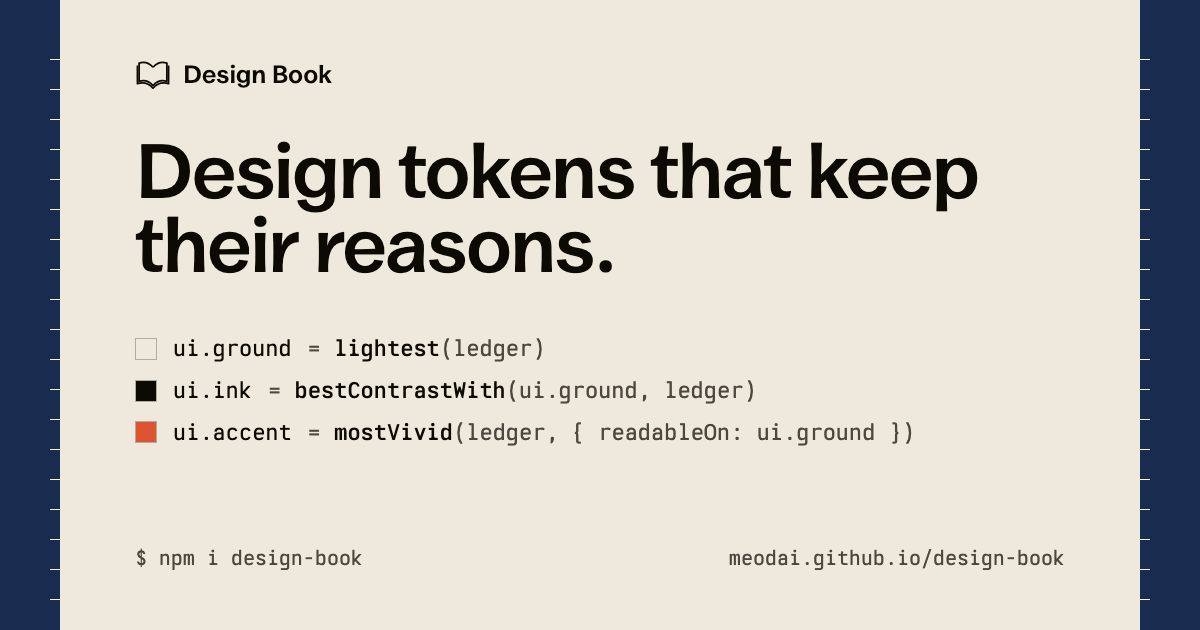
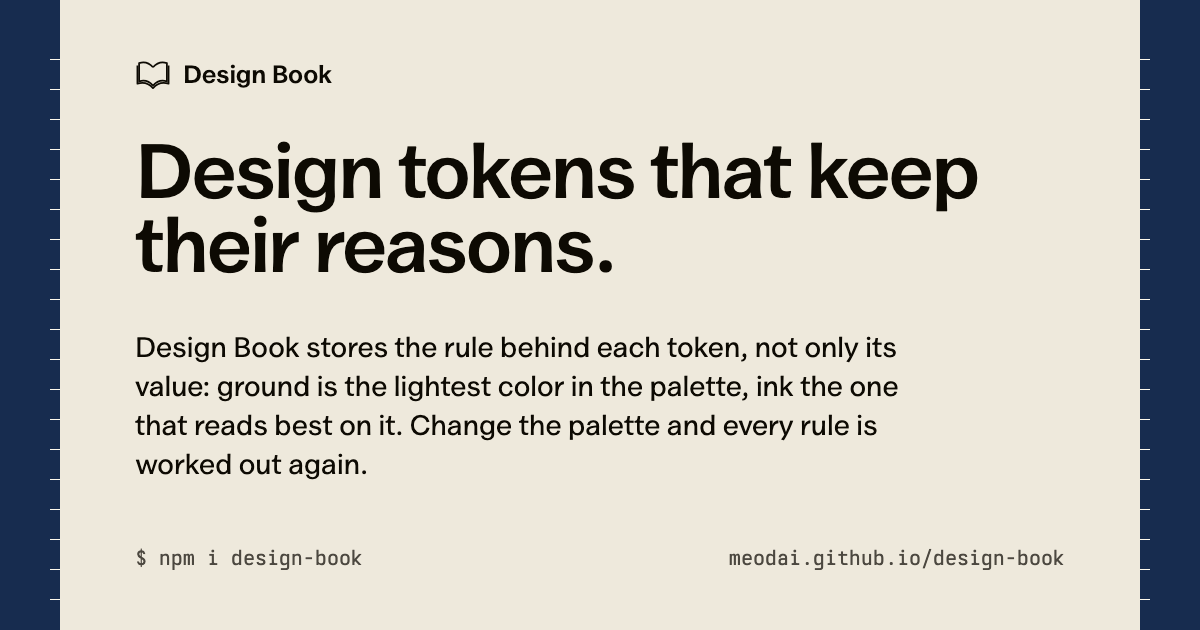
feat(site): the share image explains itself in a paragraph

Changed region(s): [[0.0925, 0.6032, 0.7708, 0.754], [0.0925, 0.5429, 0.7708, 0.573]]

diff --git a/scripts/share-image.html b/scripts/share-image.html
@@ -86,31 +86,12 @@
     letter-spacing: -0.03em;
   }
 
-  /* Three rules from the landing page, plain: the token, its rule, the
-     color it lands on. */
-  .rules {
+  .lede {
+    max-width: 30em;
     margin: 0;
-    padding: 0;
-    list-style: none;
-    font: 22px / 1.9 "Obel Mono", monospace;
+    font: 400 27px / 1.45 "Valley Sans", sans-serif;
+    text-wrap: pretty;
   }
-
-  .rules li {
-    display: flex;
-    align-items: center;
-    gap: 16px;
-  }
-
-  .rules i {
-    flex: none;
-    width: 22px;
-    height: 22px;
-    background: var(--c);
-    box-shadow: inset 0 0 0 1px var(--rule);
-  }
-
-  .rules .fn { color: var(--ink-2); }
-  .rules .fn b { font-weight: 600; color: var(--black); }
 
   .foot {
     margin-top: auto;
@@ -136,11 +117,11 @@
 
     <h1>Design tokens that keep their reasons.</h1>
 
-<ul class="rules">
-      <li><i style="--c: #eee9dc"></i>ui.ground <span class="fn">= <b>lightest</b>(ledger)</span></li>
-      <li><i style="--c: #0d0a03"></i>ui.ink <span class="fn">= <b>bestContrastWith</b>(ui.ground, ledger)</span></li>
-      <li><i style="--c: #de5331"></i>ui.accent <span class="fn">= <b>mostVivid</b>(ledger, { readableOn: ui.ground })</span></li>
-    </ul>
+<p class="lede">
+      Design Book stores the rule behind each token, not only its value: ground
+      is the lightest color in the palette, ink the one that reads best on it.
+      Change the palette and every rule is worked out again.
+    </p>
 
     <div class="foot">
       <span>$ npm i design-book</span>
